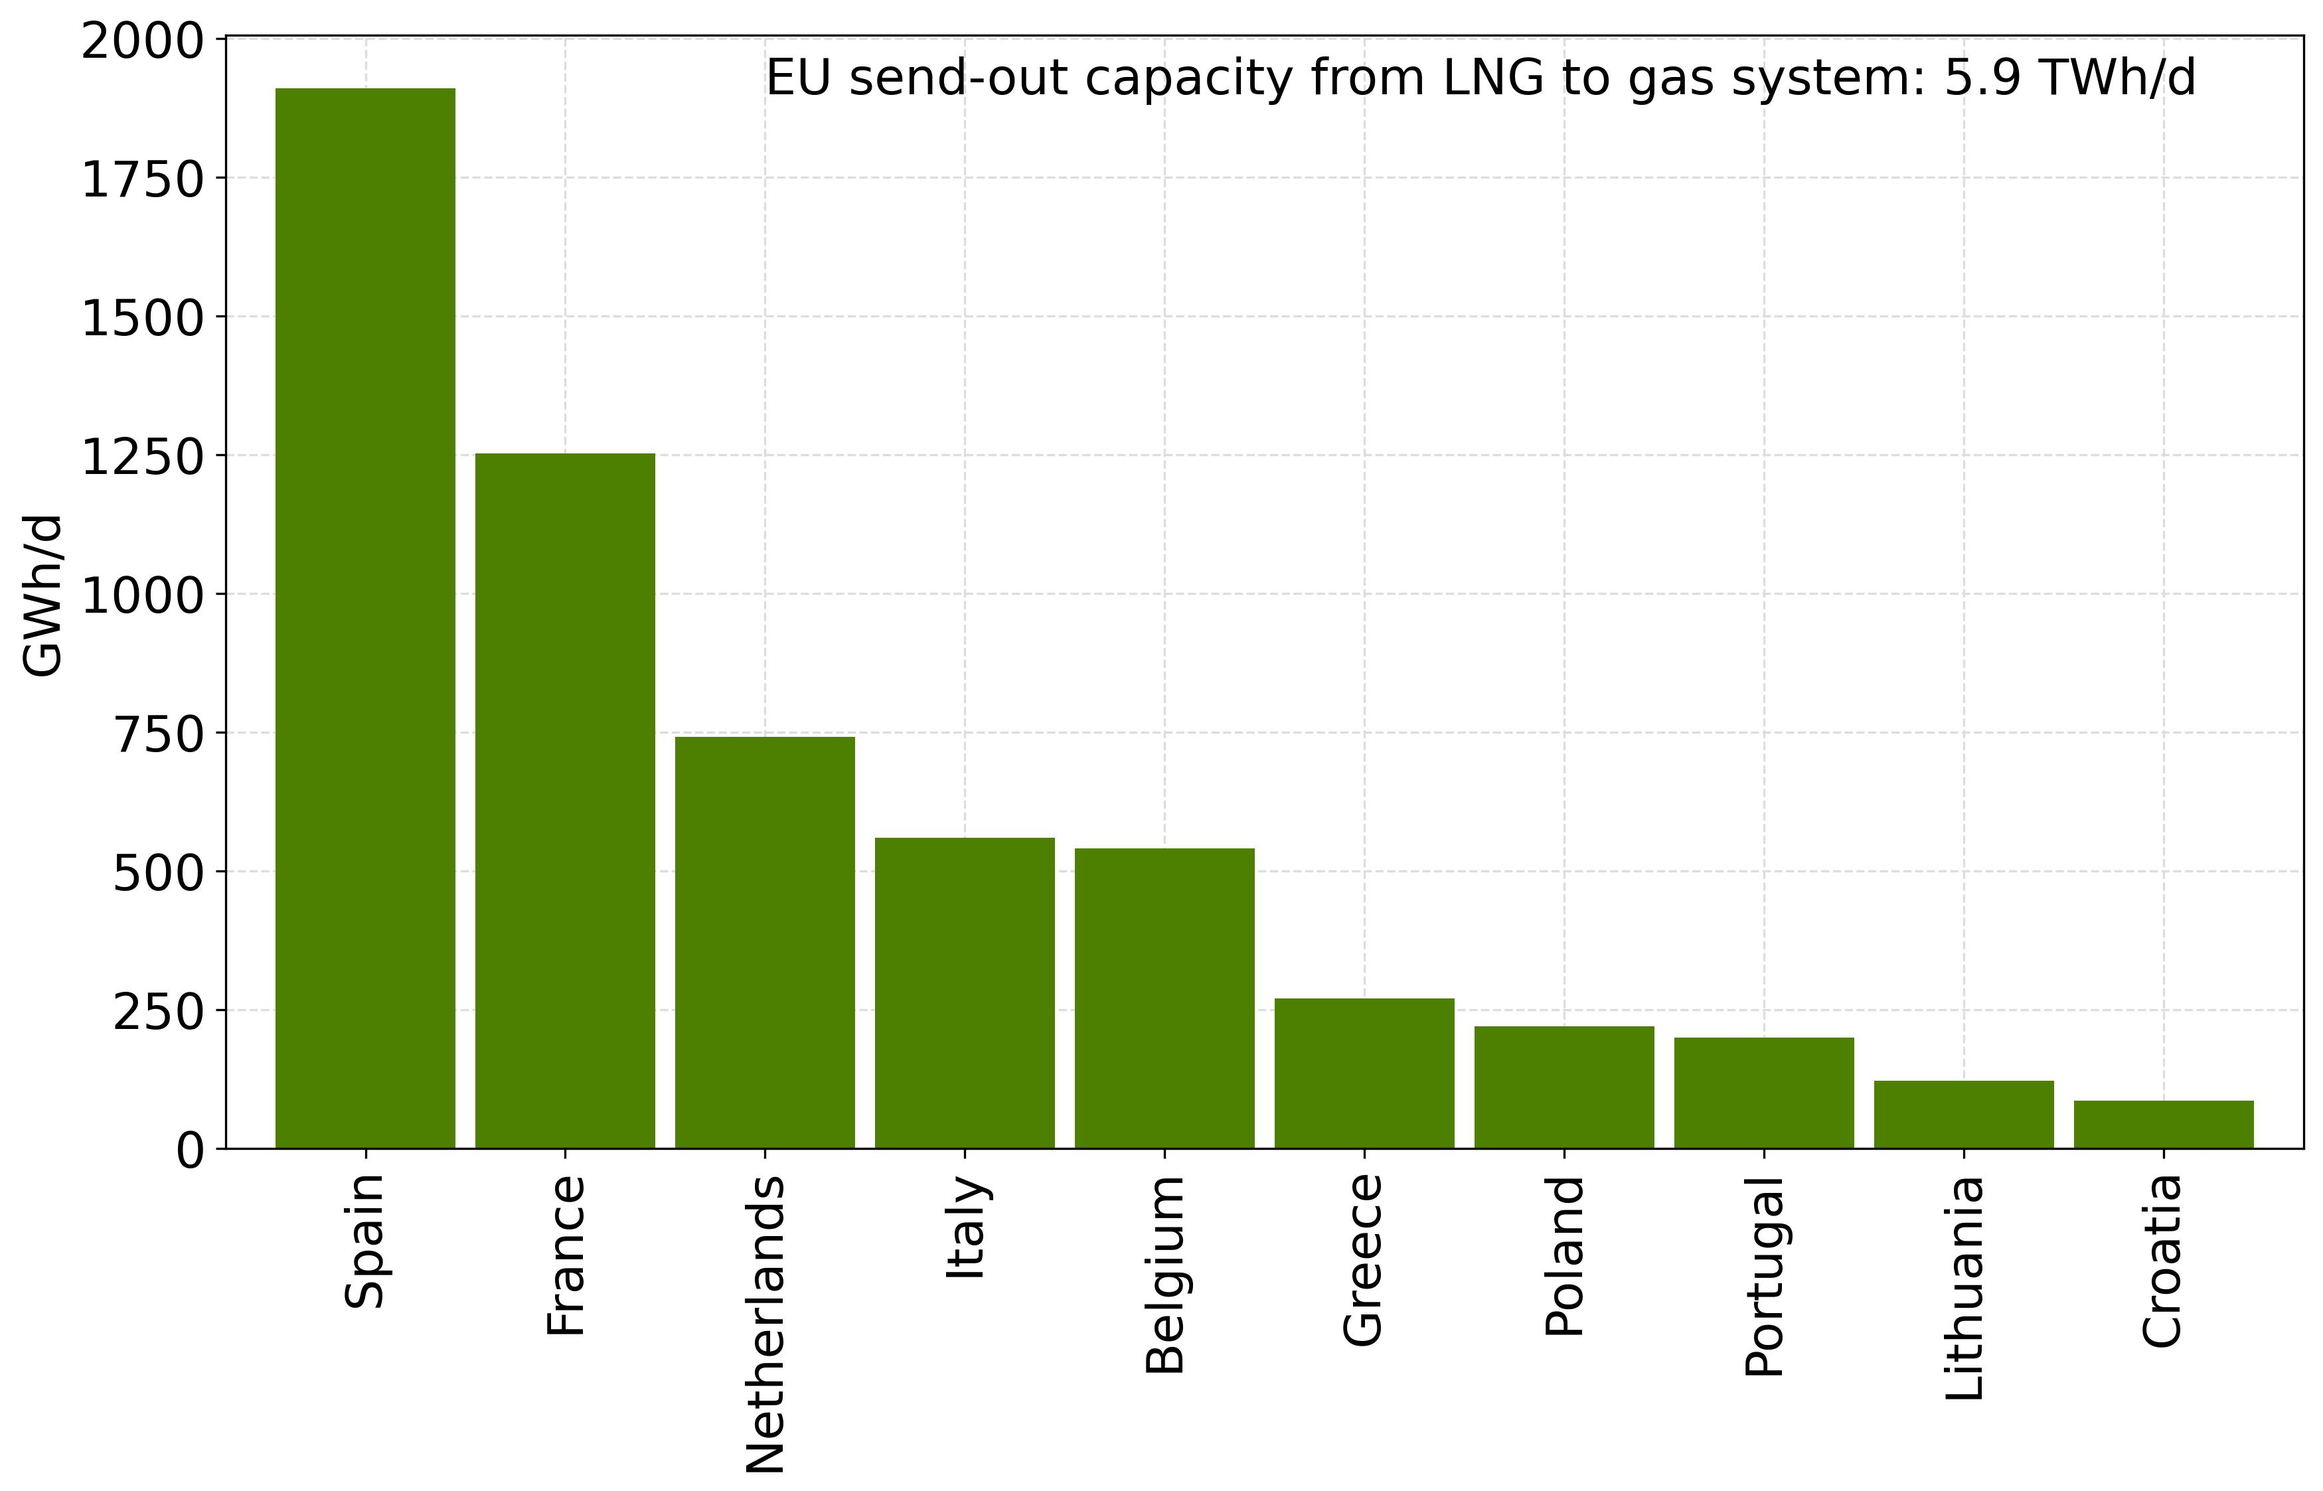
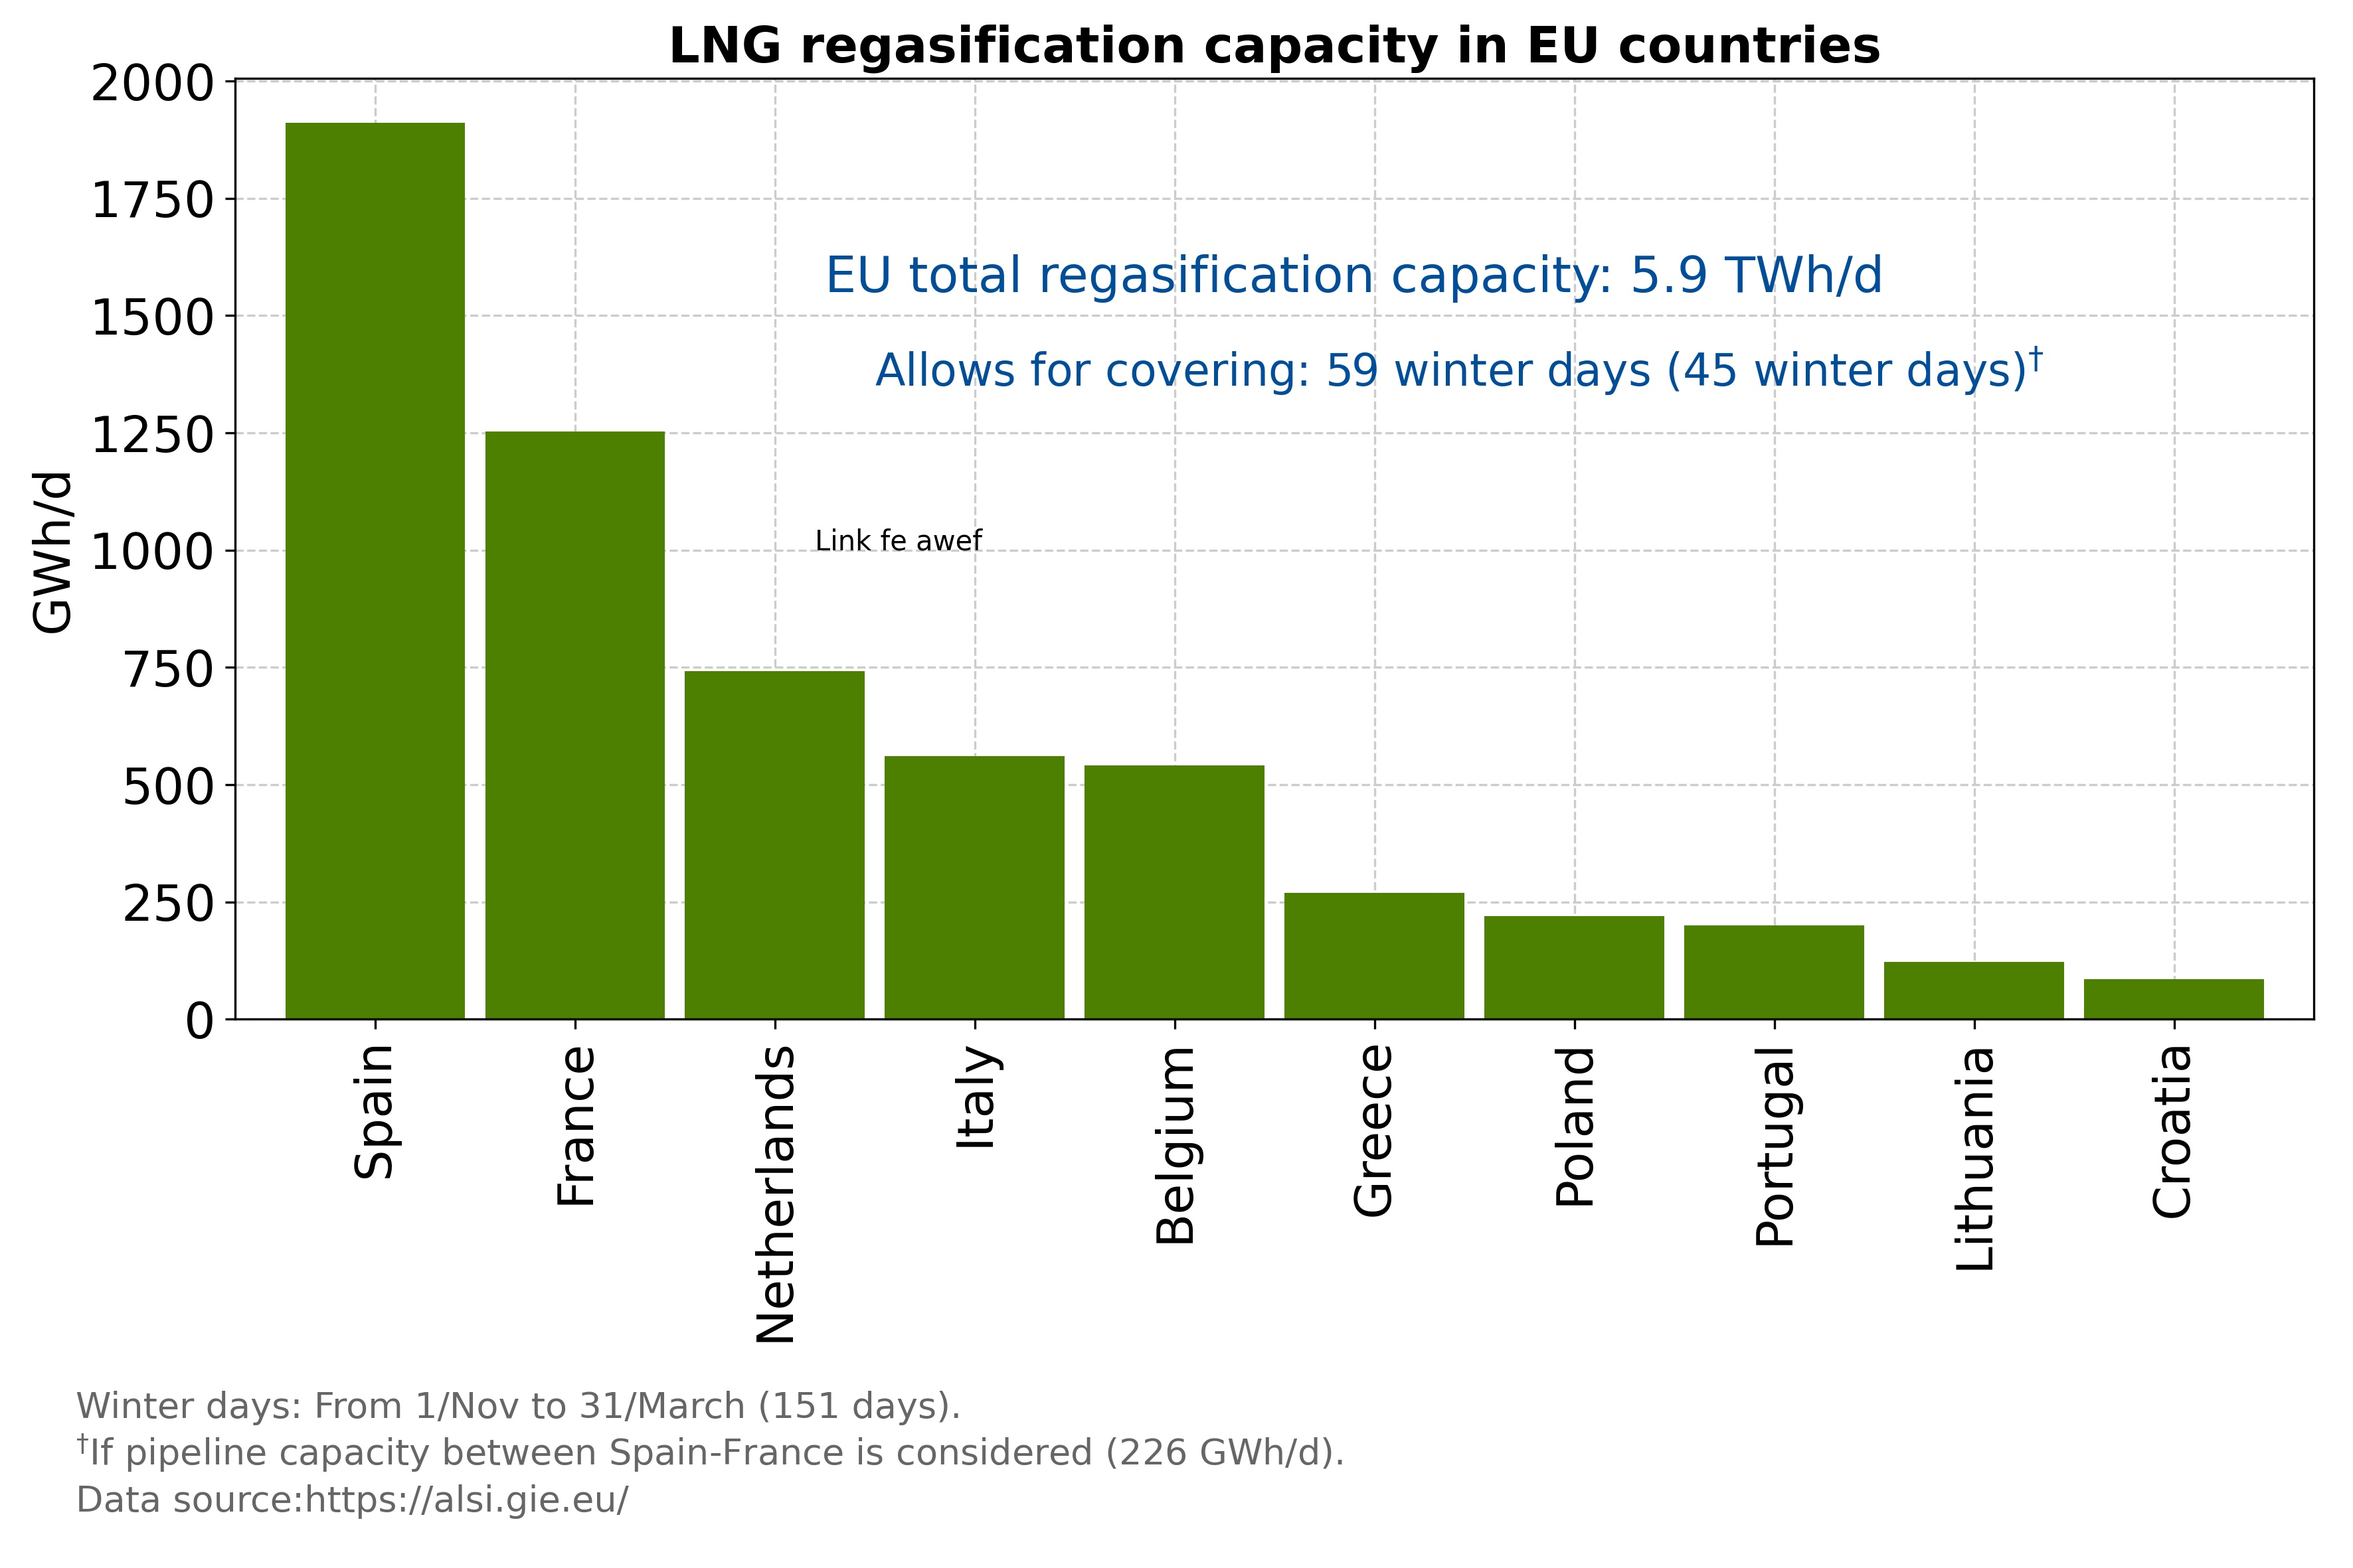
update

diff --git a/EU_LNG_capacities.py b/EU_LNG_capacities.py
@@ -1,0 +1,212 @@
+# -*- coding: utf-8 -*-
+"""
+This script generates a plot showing LNG send-out capacities in EU countries
+
+@author: cristobal-GC
+"""
+
+
+import pandas as pd
+import matplotlib.pyplot as plt
+
+
+
+
+
+#################### Analysis parameters
+
+### EU, SP and PT gas annual consumption 
+# Ref: https://agsi.gie.eu/
+EU_year_cons = 4151.8 # TWh
+ES_year_cons =  372.7 # TWh
+PT_year_cons =   68.9 # TWh
+
+
+### Export capacity ES-FR
+export_capacity_ES_FR = 226 # GWh/d
+
+
+### Winter consumption (from 1/Nov to 31/March) is assumed to be 55% of year consumption
+# Ref: EUROSTAT
+# https://ec.europa.eu/eurostat/databrowser/view/nrg_cb_gasm/default/table?lang=en
+winter_cons_factor = 0.55
+winter_days = 151
+
+
+
+
+
+#################### Plot parameters
+
+### tokens
+token_add_message_1 = True
+token_add_message_2 = True
+
+
+
+### font sizes
+tamano 			= 18
+tamano_small 	= 16
+tamano_notes	= 13
+
+params = {'axes.labelsize': tamano,
+          'xtick.labelsize': tamano,
+          'ytick.labelsize': tamano}     
+
+plt.rcParams.update(params)
+
+
+
+### Colours
+color_bar 		= (0.3,0.5,0.0) # green
+color_message 	= (0.0,0.3,0.6) # azure 40%
+color_grid		= (0.8,0.8,0.8) # light gray
+color_notes		= (0.4,0.4,0.4) # gray
+
+
+
+### Define figure and axes size
+figure_width 	= 30 # cm
+figure_height 	= 20 # cm
+
+left_margin 	= 3 # cm
+right_margin 	= .5 #cm
+top_margin 		= 1 # cm
+bottom_margin 	= 7 # cm
+
+
+
+
+
+
+#################### Data processing to obtain dataframes 'df' and 'dfEU'
+
+### Read data
+data = pd.read_csv('data/LNG_EU.csv',delimiter=';',skiprows=1)
+
+# Columns description:
+#	'LNG Inventory (1000 m3)'	: Stored LNG in tanks on gas day 2022-09-18
+#	'Send-out (GWh/d)'		: Emission on gas day 2022-09-18
+#	'DTMI (1000 m3)'		: "Declared total maximum inventory", storage capacity in LNG tanks
+#	'DTRS (GWh/d)'			: "Declared total reference send-out", emission capacity into the gas system
+
+
+# Remove EU row
+df1 = data[data["Name"]!="EU"]
+
+# Sort by emission capacity DTRS (GWh/d)
+df = df1.sort_values("DTRS (GWh/d)",ascending=False)
+
+# Select EU row
+dfEU = data[data["Name"]=="EU"]
+
+
+
+
+
+#################### Make plot
+
+### Create fig and ax
+left    = left_margin / figure_width # Percentage from width
+right   = right_margin / figure_width # Percentage from width
+top     = top_margin / figure_height # Percentage from height
+bottom  = bottom_margin / figure_height # Percentage from height
+
+width  = 1 - left - right
+height = 1 - top - bottom
+
+cm2inch = 1/2.54 # inch per cm
+
+fig = plt.figure(figsize=(figure_width*cm2inch,figure_height*cm2inch))
+ax = fig.add_axes((left, bottom, width, height))
+
+
+
+### Add bars
+df.plot(x='Name', y="DTRS (GWh/d)",
+        color=color_bar,
+        kind='bar',width=.9,
+        legend=None,
+        ax=ax)
+
+
+
+### Message 1
+if token_add_message_1:
+	
+	# Get total capacity in EU 
+	EU_LNG_capacity = dfEU.loc[0,['DTRS (GWh/d)']].item()
+
+	# Add message
+	ax.text(2.25, 1550, f'EU total regasification capacity: {round(EU_LNG_capacity/10)/100} TWh/d', 
+			fontsize=tamano, color=color_message)
+
+
+
+### Message 2
+if token_add_message_2:
+
+	# Get total capacity in EU 
+	EU_LNG_capacity = dfEU.loc[0,['DTRS (GWh/d)']].item()
+
+	# Get total capacity in EU without ES and PT LNG capacity, but with ES-FR pipeline
+	ES_LNG_capacity = df[df.Name=='Spain']['DTRS (GWh/d)'].item()
+	PT_LNG_capacity = df[df.Name=='Portugal']['DTRS (GWh/d)'].item()
+	EU_LNG_capacity_reduced = EU_LNG_capacity-ES_LNG_capacity-PT_LNG_capacity+export_capacity_ES_FR
+
+	# Get UE gas annual consumption without ES and PT
+	EU_year_cons_reduced = EU_year_cons-ES_year_cons-PT_year_cons
+
+	# EU gas consumption in winter period
+	EU_winter_cons = EU_year_cons*winter_cons_factor
+
+	# EU gas consumption in winter period without ES and PT
+	EU_winter_cons_reduced = EU_year_cons_reduced*winter_cons_factor
+
+	# Winter days covered with NGL capacity
+	winter_days_covered = round(winter_days*(EU_LNG_capacity*winter_days/(EU_winter_cons*1000)))
+
+	# Winter days covered with NGL capacity considering limited pipeline capacity between ES-FR
+	winter_days_covered_reduced = round(winter_days*(EU_LNG_capacity_reduced*winter_days/(EU_winter_cons_reduced*1000)))
+
+	# Add message
+	ax.text(2.5,1350,f'Allows for covering: {winter_days_covered} winter days ({winter_days_covered_reduced} winter days)' u"$^\u2020$",
+			fontsize=tamano_small, color=color_message)
+
+
+
+### Notes
+ax.text(-1.5,-850,f'Winter days: From 1/Nov to 31/March (151 days).',
+			fontsize=tamano_notes, color=color_notes)
+
+ax.text(-1.5,-950,u'$^\u2020$' f'If pipeline capacity between Spain-France is considered ({export_capacity_ES_FR} GWh/d).',
+			fontsize=tamano_notes, color=color_notes)
+
+ax.text(-1.5,-1050,'Data source, details and code: https://alsi.gie.eu/',
+			fontsize=tamano_notes, color=color_notes)
+
+
+
+### Customise plot
+
+# Add title
+plt.title('LNG regasification capacity in EU countries',fontsize = tamano,fontweight="bold")
+
+# Set axes labels
+ax.set_xlabel("")
+ax.set_ylabel("GWh/d")
+
+# Set grid
+ax.grid(which='major', color=color_grid,linestyle='--', linewidth=0.8)
+ax.set_axisbelow(True)
+
+
+
+
+
+#################### Save plot
+
+plt.savefig(f'figures/EU_LNG_capacities.jpg', dpi=300) 
+
+
+
